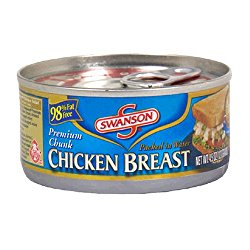
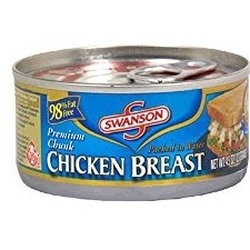
resizing some pics

diff --git a/grains/index.html b/grains/index.html
@@ -99,7 +99,7 @@
                 <h3>
                   <a target="_blank" href="https://www.amazon.com/gp/product/B00MO3GOVK/ref=as_li_tl?ie=UTF8&tag=allthehealthiestfoods-20&camp=1789&creative=9325&linkCode=as2&creativeASIN=B00MO3GOVK&linkId=a6cc34d08a45956e0ee453e5f645dcab">Dave's Killer Bread, 21 Grains, Thin-sliced - 2 Loaves</a>
                 </h3>
-                <p>With protein, fiber and no artificial ingredients, this whole grain bread is certainly a healthy option.</p>
+                <p>Whole grain bread with protein, fiber and no artificial ingredients.</p>
             </div>
             <div class="col-md-4 portfolio-item">
                 <a target="_blank" href="https://www.amazon.com/gp/product/B00EPVIW2I/ref=as_li_qf_sp_asin_il_tl?ie=UTF8&tag=allthehealthiestfoods-20&camp=1789&creative=9325&linkCode=as2&creativeASIN=B00EPVIW2I&linkId=345fa5066b13c6a6a92867e2fe80124f">
@@ -108,7 +108,7 @@
                 <h3>
                     <a target="_blank" href="https://www.amazon.com/gp/product/B00EPVIW2I/ref=as_li_qf_sp_asin_il_tl?ie=UTF8&tag=allthehealthiestfoods-20&camp=1789&creative=9325&linkCode=as2&creativeASIN=B00EPVIW2I&linkId=345fa5066b13c6a6a92867e2fe80124f">Nature Valley, High Protein Granola, Oats and Honey, 11oz Bag (Pack of 4)</a>
                 </h3>
-                <p>With protein and whole grain oats, this granola is a healthy choice.</p>
+                <p>Whole grain oats and high in protein; it does have some added sugar though.</p>
             </div>
             <div class="col-md-4 portfolio-item">
                 <a target="_blank" href="https://www.amazon.com/gp/product/B000LKXRU4/ref=as_li_qf_sp_asin_il_tl?ie=UTF8&tag=allthehealthiestfoods-20&camp=1789&creative=9325&linkCode=as2&creativeASIN=B000LKXRU4&linkId=b145275e1b0826562add3ded2f64d452">
@@ -180,7 +180,7 @@
                 <h3>
                     <a target="_blank" href="https://www.amazon.com/gp/product/B00O7YA32K/ref=as_li_qf_sp_asin_il_tl?ie=UTF8&tag=allthehealthiestfoods-20&camp=1789&creative=9325&linkCode=as2&creativeASIN=B00O7YA32K&linkId=4adaa58e3b7cd3bee7da616b698394d2">Planters Nutrition Heart Healthy Mix, 1 Pound 2.25 Ounce</a>
                 </h3>
-                <p>Peanuts, almonds, pistachios, pecans, walnuts, and hazelnuts with peanuts and almonds in greater numbers than the others. </p>
+                <p>Peanuts, almonds, pistachios, pecans, walnuts, and hazelnuts. The peanuts and almonds are in greater numbers than the others. </p>
             </div>
         </div>
         <!-- /.row -->

diff --git a/fruit2/index.html b/fruit2/index.html
@@ -166,11 +166,6 @@
                     <p><br><br>More fresh fruits coming soon as they become available.</p>
                 </h3>
             </div>
-            <div class="col-md-4 portfolio-item">
-                <h3>
-                    <p><br><br>More fresh fruits coming soon as they become available.</p>
-                </h3>
-            </div>
           </div>
             <!--<div class="col-md-4 portfolio-item">
                 <a target="_blank" href="https://www.amazon.com/gp/product/B000RGYJI6/ref=as_li_qf_sp_asin_il_tl?ie=UTF8&tag=allthehealthiestfoods-20&camp=1789&creative=9325&linkCode=as2&creativeASIN=B000RGYJI6&linkId=e9831deeae77d5acaecd9d1ce77e745f">
